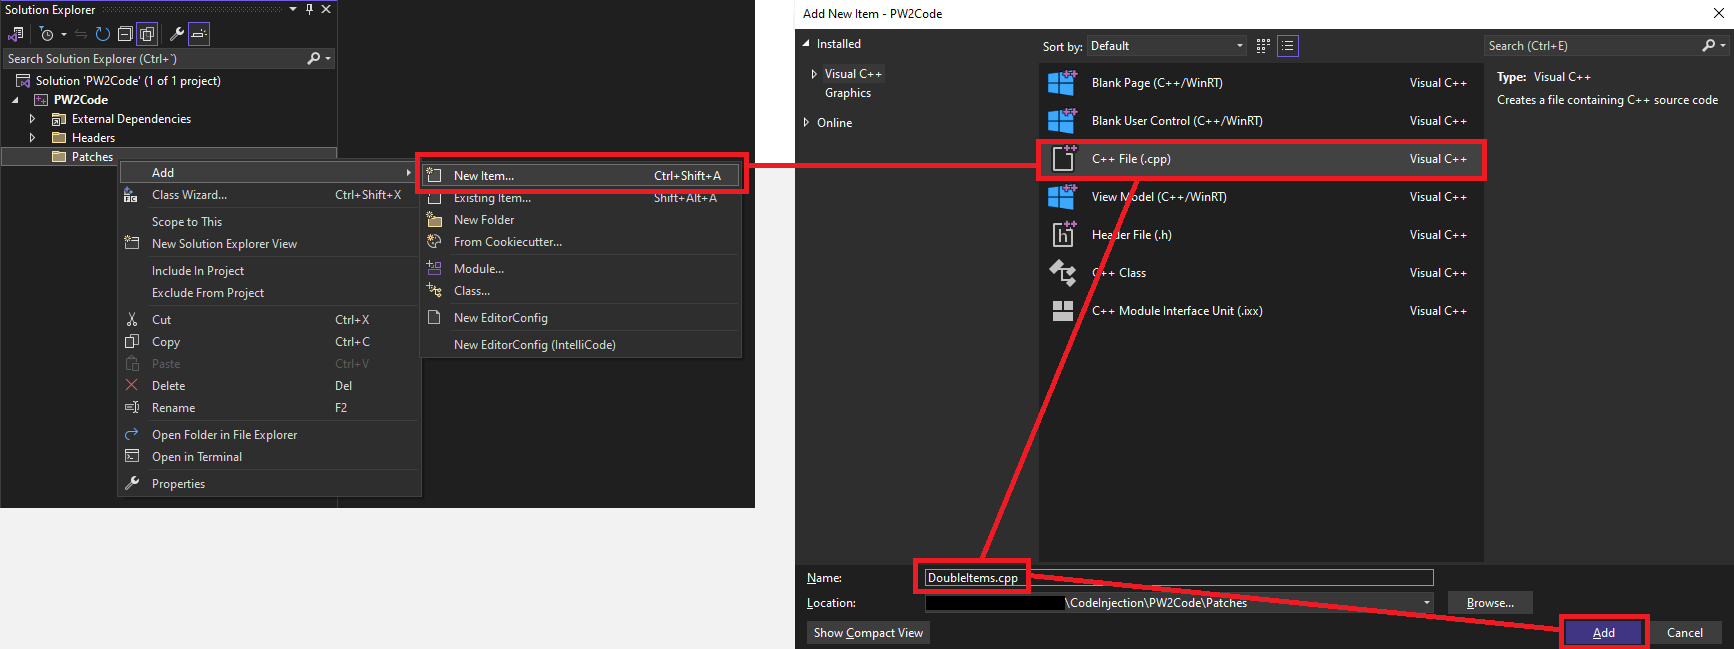
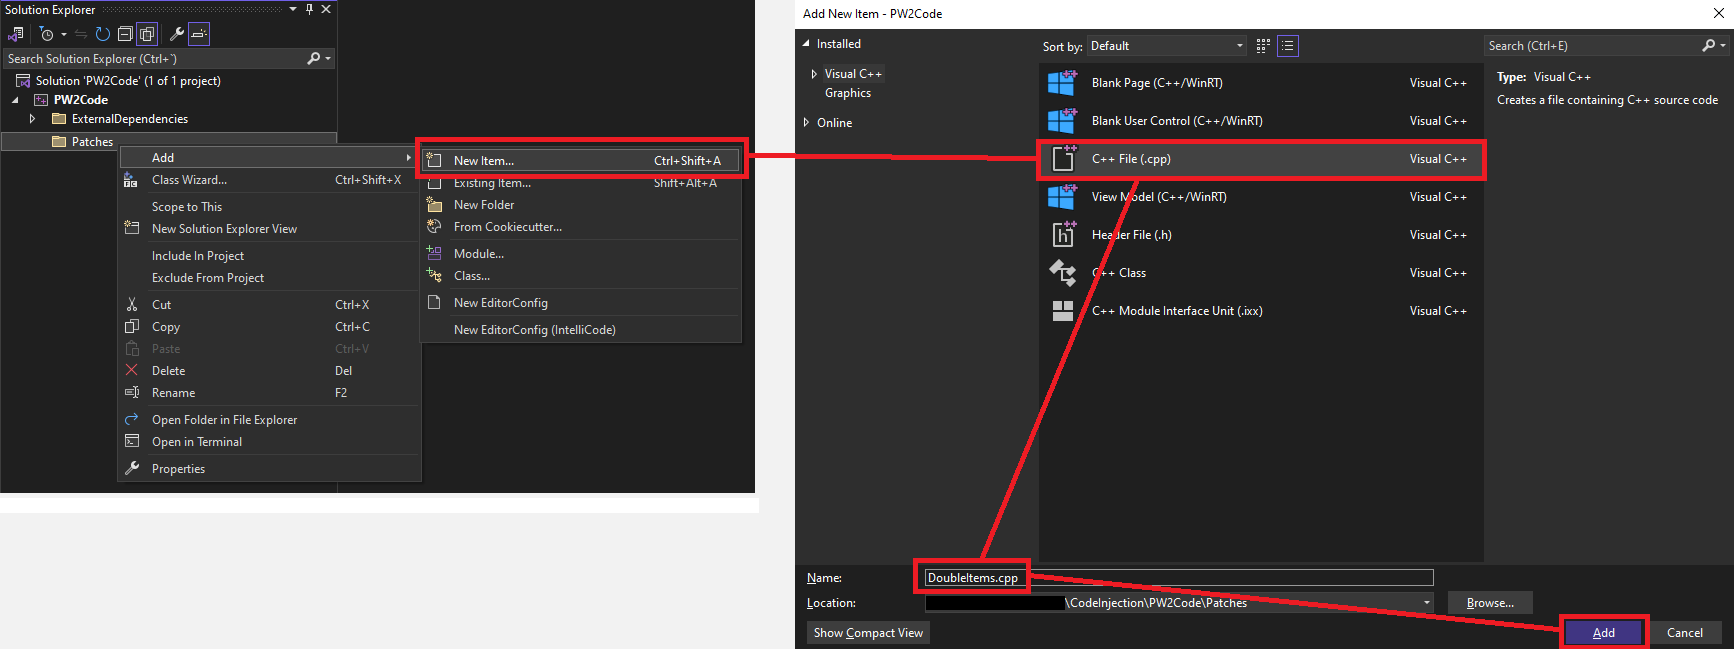
fixed file structure again

Changed region(s): [[0.0, 0.1541, 0.5917, 0.5547], [0.0, 0.4622, 0.436, 0.8012], [0.1869, 0.4622, 0.218, 0.6163]]

diff --git a/docs/generation-v/guides/b2w2-code_injection_set_up/b2w2-code_injection_set_up.md b/docs/generation-v/guides/b2w2-code_injection_set_up/b2w2-code_injection_set_up.md
@@ -37,34 +37,21 @@ Before starting I recomend creating a ``CodeInjection`` folder to store all code
 
 ### File structure
 1. Create an Empty C++ Project inside of the ``CodeInjection`` folder, for this guide it will be called PW2Code
-2. Create a folder named "SWAN" at ``CodeInjection/PW2Code`` 
-3. Clone the [SWAN repositiory](https://github.com/ds-pokemon-hacking/swan) in the ``CodeInjection/PW2Code/SWAN`` folder
-4. Create a folder named "NK" at ``CodeInjection/PW2Code`` 
-5. Clone the [NitroKernel repositiory](https://github.com/HelloOO7/NitroKernel) in the ``CodeInjection/PW2Code/NK`` folder
-6. Create ``CodeInjection/PW2Code/Patches`` (here will go all your code)
+2. Create a folder named "ExternalDependencies" at ``CodeInjection/PW2Code`` 
+3. Clone the [SWAN repositiory](https://github.com/ds-pokemon-hacking/swan) in the ``CodeInjection/PW2Code/ExternalDependencies`` folder
+4. Clone the [NitroKernel repositiory](https://github.com/HelloOO7/NitroKernel) in the ``CodeInjection/PW2Code/ExternalDependencies`` folder
+5. Clone the [ExtLib repositiory](https://github.com/HelloOO7/ExtLib) in the ``CodeInjection/PW2Code/ExternalDependencies`` folder
+6. Clone the [libRPM repositiory](https://github.com/HelloOO7/libRPM) in the ``CodeInjection/PW2Code/ExternalDependencies`` folder
+7. Create ``CodeInjection/PW2Code/Patches`` (here will go all your code)
 
 File structure should look like this:
 - CodeInjection
   - PW2Code
-    - SWAN
-	  - swan
-        - battle
-        - data
-        - field
-        - gfl
-        - math
-        - nds
-        - ns
-        - pml
-        - save
-        - system
-        - swan_cpp_enum_ops.h
-        - swantypes.h
-	- NK
-	  - NitroKernel
-	    - .vscode
-		- include
-		- src
+    - ExternalDependencies
+      - ExtLib
+      - libRPM
+      - NitroKernel
+      - swan
     - Patches
     - PW2Code.sln
     - PW2Code.vcxproj
@@ -80,7 +67,7 @@ File structure should look like this:
 4. In the "Solution Explorer" view, "Right-Click" the project and select ``Properties``
 5. Go to ``Configuration Properties -> VC++ Directories -> Include Directories`` and select ``<Edit...>``
 ![](resources/vs_include_paths_edit.png)
-6. In the "Include Directories" window, paste the path to the ``swan`` and ``NitroKernel/include`` folders or use the ``...`` button to look them up    
+6. In the "Include Directories" window, paste ``$(ProjectDir)ExternalDependencies/swan``, ``$(ProjectDir)ExternalDependencies/NitroKernel/include``, ``$(ProjectDir)ExternalDependencies/ExtLib`` and ``$(ProjectDir)ExternalDependencies/libRPM/include`` or use the ``...`` button to look them up    
 ![](resources/vs_add_include_path.png)
 7. Click ``Ok`` and remember to click ``Accept`` in the ``Properties`` window to save the changes
 
@@ -217,15 +204,16 @@ C_DECL_END
 ```
 
 ### Compiling a patch
-These instructions assume you followed the previous steps, your SWAN headers are in the ``CodeInjection/PW2Code/Headers`` folder and your code in the ``CodeInjection/PW2Code/Patches`` folder.
+These instructions assume you followed the previous steps, your SWAN headers and other External Dependencies are in the ``CodeInjection/PW2Code/ExternalDependencies`` folder and your code in the ``CodeInjection/PW2Code/Patches`` folder.
 
 1. Open a cmd terminal in the PW2Code folder (in the "File Explorer" window go the the PW2Code folder, click the path input box, type "cmd" and clik "Enter")   
 ![](resources/open_cmd.png)
 2. Paste the following command in the terminal:    
-``arm-none-eabi-g++ Patches/DoubleItems.cpp -I SWAN/swan -I NK/NitroKernel/include -o DoubleItems.elf -r -mthumb -march=armv5t -Os``   
+``arm-none-eabi-g++ Patches/DoubleItems.cpp -I ExternalDependencies/swan -I ExternalDependencies/NitroKernel/include -o DoubleItems.elf -r -mthumb -march=armv5t -Os``   
 General structure of the command for a C++ patch:    
 ``arm-none-eabi-g++ [patch path] -I [include directory path] -o [output path] -r -mthumb -march=armv5t -Os``   
 
+In this particular example we only use ``-I`` to include the SWAN and NK directories since they are the only ones we use, you can use it to include as many External Include Directories as you need.      
 I recommend that you set the output file to be in a specific folder for the ELF files, to keep stuff organized.
 
 ### Injecting a patch
